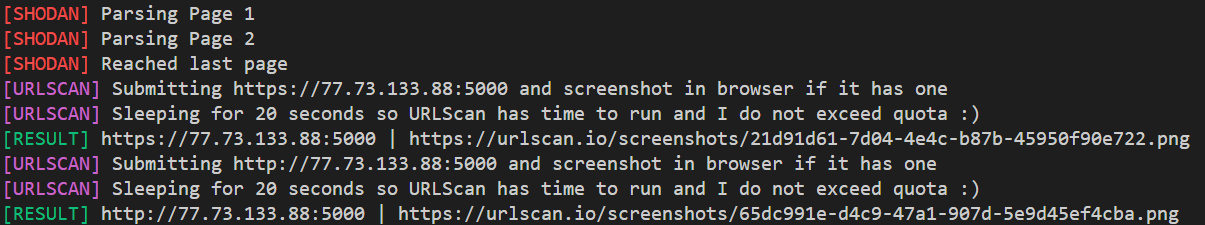
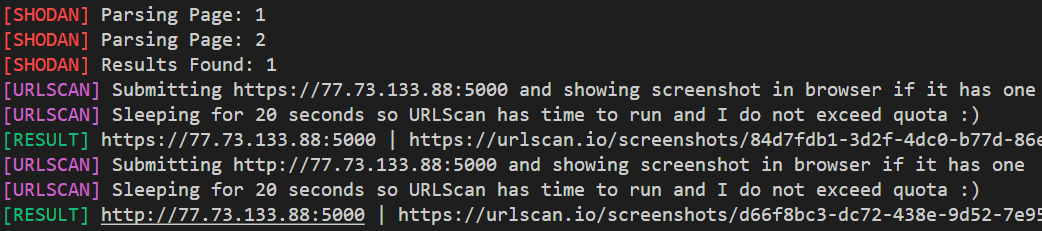
update

diff --git a/hunter.py b/hunter.py
@@ -18,7 +18,7 @@ shodan_query = args.query
 urlscan_key = args.urlscan
 
 def urlscan_submission(url, urlscan_key):
-    print(f"{Fore.MAGENTA}[URLSCAN]{Style.RESET_ALL} Submitting {url} and screenshot in browser if it has one")
+    print(f"{Fore.MAGENTA}[URLSCAN]{Style.RESET_ALL} Submitting {url} and showing screenshot in browser if it has one")
     headers = {"API-Key": urlscan_key, "Content-Type": "application/json"}
     data = {"url": url, "visibility": "public"}
     response = requests.post('https://urlscan.io/api/v1/scan/',headers=headers, data=json.dumps(data))
@@ -38,14 +38,16 @@ def urlscan_submission(url, urlscan_key):
 def shodan_search(shodan_query, shodan_key, urlscan_key):
     api = Shodan(shodan_key)
     results_to_analyze = set()
+    total_results = 0
     for page_number in range(1, 1337):
-        print(f"{Fore.LIGHTRED_EX}[SHODAN]{Style.RESET_ALL} Parsing Page {page_number}")
+        print(f"{Fore.LIGHTRED_EX}[SHODAN]{Style.RESET_ALL} Parsing Page: {page_number}")
         results = api.search(query=shodan_query, page=page_number)
         number_of_results = len(results["matches"])
         if number_of_results == 0:
-            print(f"{Fore.LIGHTRED_EX}[SHODAN]{Style.RESET_ALL} Reached last page")
+            print(f"{Fore.LIGHTRED_EX}[SHODAN]{Style.RESET_ALL} Results Found: {total_results}")
             break
         elif number_of_results > 0:
+            total_results += number_of_results
             for result in results["matches"]:
                 ip = str(result["ip_str"])
                 port = str(result["port"])
